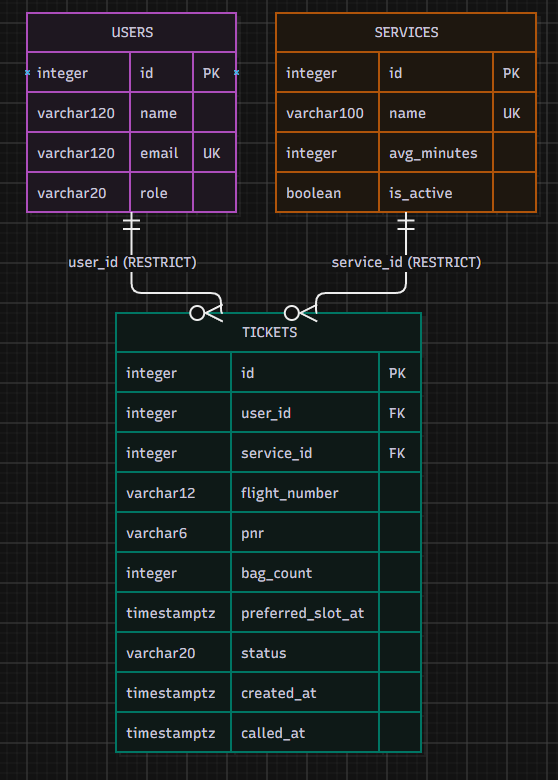
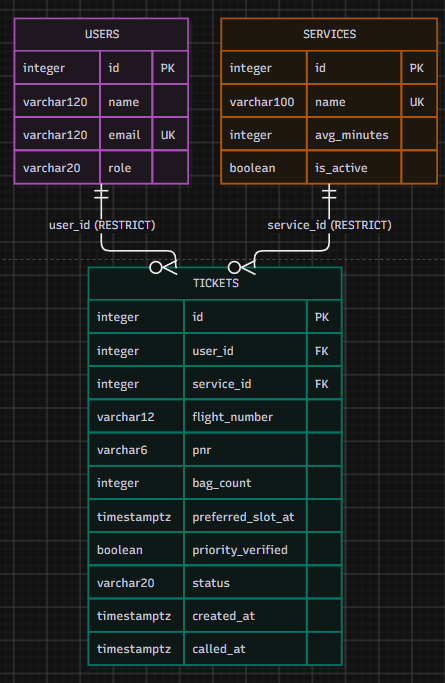
Add Week 4 schema self-review (#3)

Changed region(s): [[0.0292, 0.0, 0.9933, 0.9839]]

diff --git a/docs/week4/schema-review.md b/docs/week4/schema-review.md
@@ -1,0 +1,54 @@
+# NAIA ExpressPass Schema Self-Review
+
+## Part 3: Self-review of the schema
+
+The NAIA ExpressPass database schema was reviewed using the six questions provided in the Week 4 activity: requirement coverage, one fact in one place, facts rather than results, prevention of bad data, delete behavior, and appropriate data types.
+
+### Review 1 — Requirement coverage
+
+> **Works well:** The three-table design covers the main passenger and staff tasks. Passenger information is stored in `users`, baggage-drop lane information is stored in `services`, and visit-specific information such as flight number, PNR, bag count, preferred slot, priority verification, and ticket status is stored in `tickets`.
+>
+> **Problem:** During the review, FR-17 was marked as storing data, but the original schema did not have a field for recording whether a passenger's Priority Lane eligibility had been verified.
+>
+> **Change:** I added `priority_verified` as a `boolean` column in the `tickets` table. I also updated `schema.md` and the ERD to include this field. This allows the system to store whether staff verified a passenger's eligibility for the Priority Lane.
+
+### Review 2 — One fact in one place
+
+> **Works well:** Each type of information has one main location. User information such as name, email, and role is stored in `users`. Service information such as the lane name, average service time, and active status is stored in `services`. Information about a passenger's specific baggage-drop visit is stored in `tickets`.
+>
+> **Problem:** The review checked whether information such as a passenger's email or a service's name was unnecessarily copied into `tickets`. Duplicating these values could cause inconsistent data if one copy is updated while another is not.
+>
+> **Change:** No schema change was needed. `tickets.user_id` references `users`, while `tickets.service_id` references `services`, so related information can be retrieved through the foreign keys instead of being duplicated.
+
+### Review 3 — Store facts, not results
+
+> **Works well:** The schema stores the facts required to reconstruct the queue rather than storing calculated results. `service_id`, `status`, and `created_at` can be used to determine which tickets belong to a queue and their order.
+>
+> **Problem:** Queue position, number of passengers ahead, estimated waiting time, and daily totals can change whenever ticket data changes. Storing these calculated values could cause them to become inconsistent with the actual ticket records.
+>
+> **Change:** No additional columns were added for these values. Queue position and the number of passengers ahead will be computed from active tickets for a service ordered by `created_at`. Waiting times and daily totals can also be calculated from the stored ticket information.
+
+### Review 4 — Preventing bad data
+
+> **Works well:** The schema uses constraints to prevent several forms of invalid data. User emails and service names are unique, `bag_count` is limited to valid values, PNR has a required length, and ticket status is restricted to the allowed status values.
+>
+> **Problem:** A passenger could accidentally submit the join form more than once and create multiple active tickets. Making `user_id` unique would not be appropriate because the same passenger should be allowed to create tickets on future visits.
+>
+> **Change:** The application will check whether the passenger already has an active `waiting` or `called` ticket before creating another ticket. Database constraints will continue to prevent invalid values for individual fields.
+
+### Review 5 — Delete behavior
+
+> **Works well:** The foreign keys between `tickets`, `users`, and `services` have intentional delete behavior. Tickets reference users through `user_id` and services through `service_id`.
+>
+> **Problem:** Automatically deleting related tickets when a user or service is deleted could remove historical queue information. Using `CASCADE` for these relationships would therefore be inappropriate.
+>
+> **Change:** Both foreign keys use `ON DELETE RESTRICT`. A user or service cannot be deleted while existing tickets still reference it. This also supports the requirement that a service lane can only be deleted when no tickets reference it.
+
+### Review 6 — Appropriate data types
+
+> **Works well:** The schema uses PostgreSQL data types that match the facts being stored. `bag_count` and `avg_minutes` use integer types, while `is_active` and the newly added `priority_verified` use boolean types. Dates and times use `timestamptz`.
+>
+> **Problem:** The Week 3 version accepted the passenger's preferred slot as text. Keeping a date and time as plain text in the database would make validation, comparison, and ordering more difficult.
+>
+> **Change:** The schema uses `preferred_slot_at` as `timestamptz`. `created_at` and `called_at` also use `timestamptz`. The application will validate and convert the preferred slot before storing it.
+

diff --git a/docs/week4/schema.md b/docs/week4/schema.md
@@ -52,7 +52,8 @@ Starting from the three tables in the template, the tables are adapted to fit th
 | --- | --- |
 | `users` | id, name, email, role |
 | `services` | id, name, avg_minutes, is_active |
-| `tickets` | id, user_id, service_id, flight_number, pnr, bag_count, preferred_slot_at, status, created_at, called_at |
+| `tickets` | id, user_id, service_id, flight_number, pnr, bag_count,
+preferred_slot_at, priority_verified, status, created_at, called_at |
 
 The schema uses **three related tables**:
 
@@ -88,6 +89,7 @@ A separate table for the **queue** is not needed. The queue can be determined fr
 | `tickets` | `status` | `varchar(20)` | `NOT NULL CHECK (status IN ('waiting', 'called', 'served', 'no-show', 'left'))` | Prevents invalid ticket states. |
 | `tickets` | `created_at` | `timestamptz` | `NOT NULL DEFAULT now()` | Records when the passenger joined using a timezone-safe timestamp. |
 | `tickets` | `called_at` | `timestamptz` | Nullable | Filled only when staff call the passenger. |
+| `tickets` | `priority_verified` | `boolean` | `NOT NULL DEFAULT FALSE` | Records whether staff verified the passenger's Priority Lane eligibility. |
 
 ### Constraint coverage
 
